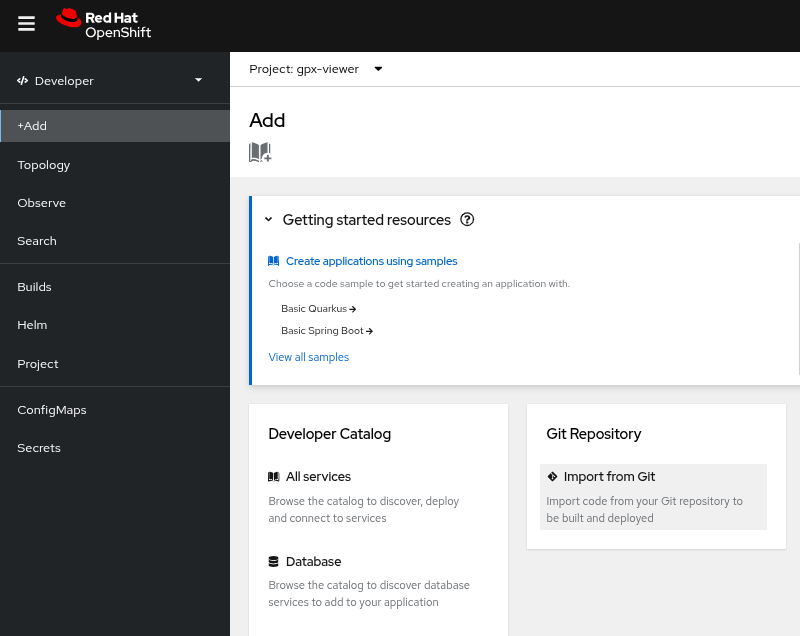
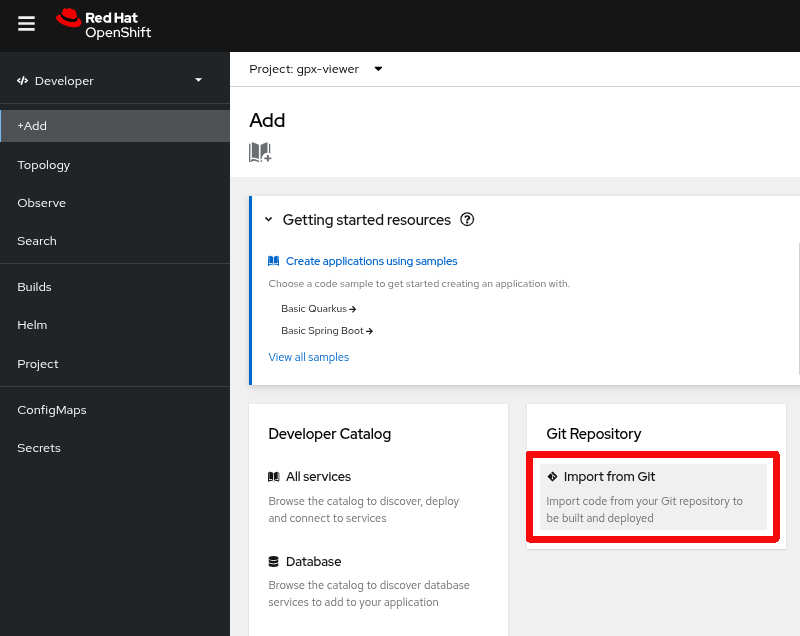
main readme files created and some beautifying

Changed region(s): [[0.6562, 0.6871, 1.0, 0.8664]]

diff --git a/docs/2-base-create-artefacts.md b/docs/2-base-create-artefacts.md
@@ -1,0 +1,45 @@
+# Create deployment artefacts
+As mentioned in the previous section [Build base app](1-base-app-build.md) this is only needed in case you want to build your own deployment artefacts. And this step is only for those who love to do things themselves.
+
+In [Build base app](1-base-app-build.md) we did build the app and the purpose of this step is to create deployment artefacts which can later be used to deploy an application via ArgoCD. ArgoCD is the GITOPS based approach and will be very easy to follow. It can even help in case of a desaster. Given that maybe somebody did delete your project/namespace by incident. We will come to this later.
+
+For now all that matters is to what makes a deployment complete. In OpenShift the following artefacts are needed:
+
+* deployment
+* service
+* route
+* configmap
+* secret
+* imagestream
+* buildconfig
+* deploymentconfig
+
+And all of these artefacts you could now retrieve from your current deployment.
+```oc get deployment -n gpx-viewer -o yaml``` you even iterate across all of them by using a loop ```for i in deployment secret buildconfig; do oc get $i -n gpx-viewer -o yaml; done```
+
+**BUT** you will quickly notice that in all of your yaml output there is a lot of metadata which refers to stuff you would not need. So you need to clean up all the output. And you can ease your life by simply using the [script](../src/k8s-create-artefacts.sh)
+
+By running
+```
+cd src
+./k8s-create-artefacts.sh gpx-viewer
+```
+
+A subdirectory k8s will be created and you find all he relevant files there. And all irrelevant metadata will be removed magically.
+
+For our small example there are way too many artefacts. We can focus on the following yaml files
+
+* buildconifg
+* deployment
+* imagestream
+* route
+* service
+
+The rest of the files can be deleted.
+
+Now what you achieved is that you did gather all relevant artefacts yourself.
+**BUT** All relevant example files are already to be found in the folger [ArgoCD]() ...
+
+|Navigation|-|-|
+|:-------:|:-------:|:-------:|
+|[README](../README.md)|[BACK](1-base-app-build.md)|[-> NEXT](./2-base-create-artefacts.md)|

diff --git a/docs/1-base-app-build.md b/docs/1-base-app-build.md
@@ -1,0 +1,50 @@
+# Build base app
+
+This step is only to be executed in case you start from scratch and thus you - at this point - miss the deployment files which you find in the folder [ArgoCD](../ArgoCD/). As said in this GIT repo everything is already prepared but this example show how the deployment files can be created in case you are not familiar with the yaml artefacts you need.
+
+**Create a new project**
+
+![GPX viewer create new project](../images/gpx-viewer-01.png)
+
+**Create a new project and add some details** if you like
+
+![GPX viewer create new project](../images/gpx-viewer-02.png)
+
+**Add a deployment**
+
+Check that you are in *developer* view
+
+![GPX viewer create new project](../images/gpx-viewer-03.png)
+
+**Add a deplyoment from GIT**
+
+Check that you import from GIT
+
+![GPX viewer create new project](../images/gpx-viewer-04.png)
+
+**Add a deplyoment from GIT**
+
+Add the GIT repo path here
+
+![GPX viewer create new project](../images/gpx-viewer-05.png)
+
+You want to make sure that:
+* Once you added the Git repo you see that a builder image was detected
+
+![GPX viewer image builder info](../images/gpx-viewer-06.png)
+
+* That you use a secure route by default. You do need to provide signed certificates if you do not have access to such certificates. OpenShift will generate a local certificate on your behalf.
+
+![GPX viewer TLS](../images/gpx-viewer-07.png)
+
+Now hit **Create** and obey to the demo gods ....
+
+It will take a few seconds and you should see in the topology view a ready to use application. The route to your application is accessible via the link which is marked ....
+
+![GPX app deployment](../images/gpx-viewer-08.png)
+
+The next step is to create the deployment config.
+
+|Navigation|-|-|
+|:-------:|:-------:|:-------:|
+|[README](../README.md)|...|[-> NEXT](./2-base-create-artefacts.md)|

diff --git a/README.md b/README.md
@@ -1,16 +1,28 @@
 # How to deploy this example
 
-``` oc new-project gpx-viewer ```
-
-![GPX viewer create new project](./images/gpx-viewer-01.png)
-
-![GPX viewer create new project](./images/gpx-viewer-02.png)
-
-![GPX viewer create new project](./images/gpx-viewer-03.png)
-
-![GPX viewer create new project](./images/gpx-viewer-04.png)
-
-![GPX viewer create new project](./images/gpx-viewer-05.png)
+This example application is a simple Node.js application which will create an index.html file. The content of this index page is a simple list of GPS tracks.
 
 
-[cli based approach](cli.md)
+Those tracks are located in the folder [public/gpx]() as ... gpx files.
+
+Once you click on the GPS track of choice a new page opens up and will render a map with your track on it.
+
+![index page example](./images/indeHTML.png)
+
+The beauty of this example is that you can add your own tracks as *gpx* file in the folder [public/gpx] of your GIT repository and by rebuilding the application in OpenShift a new index page will be created and your new track will be available.
+
+The first steps can be skipped but they give a good overview how you can start from scratch with any project.
+
+* [1 - Deploy the app a first time](docs/1-base-app-build.md)
+* [2 - Create the yaml artefacts](docs/2-base-create-artefacts.md)
+
+If you would like to move forward with your own artefacts, feel free to do so. The following examples will all refer to the existing example in the GIT repo. So you might want to delete the work you did so far in OpenShift by deleting the project
+```oc delete project gpx-viewer```
+
+In the next section we will use ArgoCD to deploy our application.
+
+
+
+|Navigation|-|-|
+|:-------:|:-------:|:-------:|
+|[cli based approach](docs/cli.md)|dfsf|

diff --git a/docs/3-argo.md b/docs/3-argo.md
@@ -1,0 +1,7 @@
+# ArgoCD
+
+
+
+|Navigation|-|-|
+|:-------:|:-------:|:-------:|
+|[README](../README.md)|...|...|
